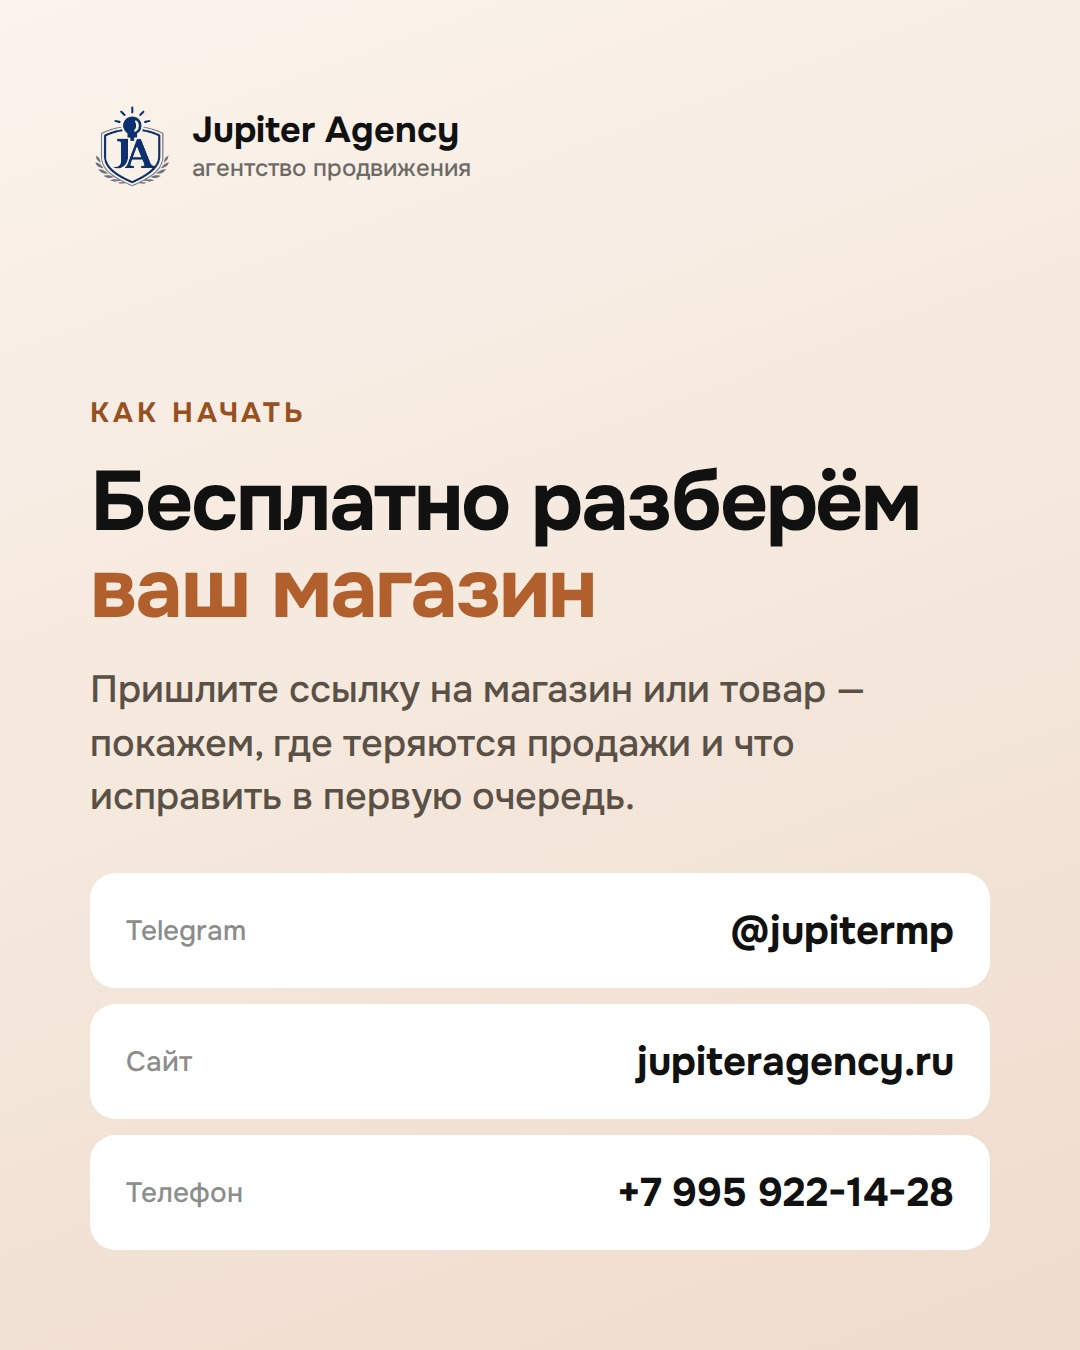
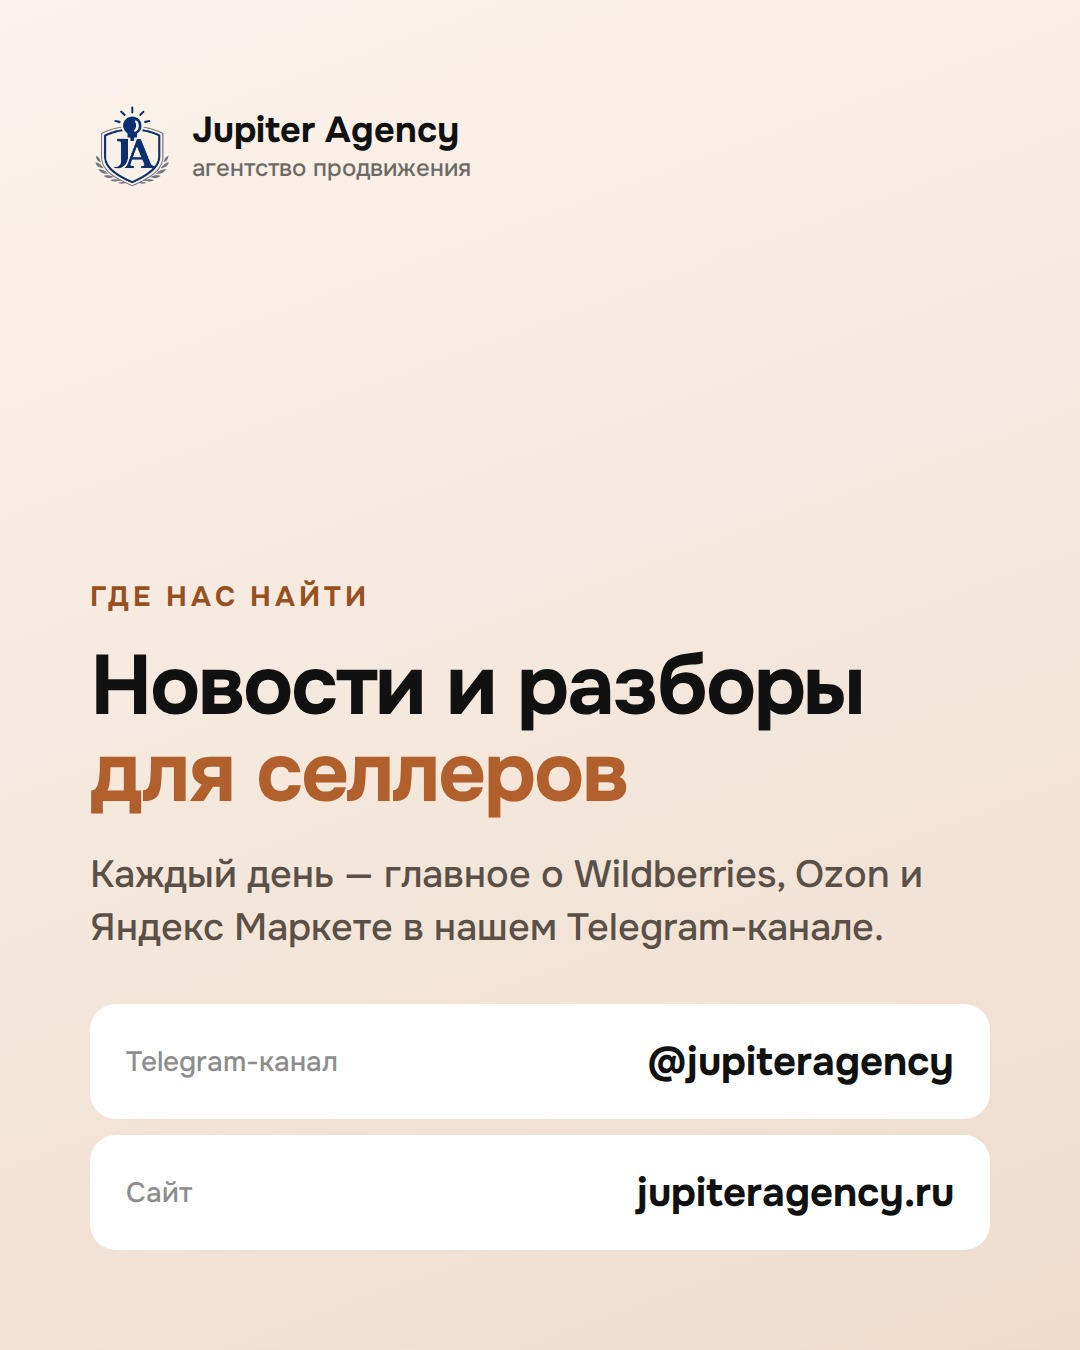
Instagram: призывы подписаться на канал вместо предложения услуг
Claude-Session: https://claude.ai/code/session_011c5SfxTiKPXy6D17hbcBSK

diff --git a/reels/render.py b/reels/render.py
@@ -12,7 +12,7 @@ from music import make_track
 HERE = os.path.dirname(os.path.abspath(__file__))
 ASSETS = os.path.join(HERE, "assets")
 FPS, TOTAL = 30, 30.0
-BOT = "@jupiteragency_bot"
+CHANNEL = "@jupiteragency"
 e = lambda s: html.escape(str(s))
 
 
@@ -49,10 +49,10 @@ def scene_html(s, t0, t1):
         mb = 'style="margin-bottom:24px"'
         return f'<div class="sc" style="justify-content:flex-start;top:330px"><div {a(0.1, mb, "m")}>{e(s["title"])}<em>{e(s["accent"])}</em></div>{items}</div>'
     if ty == "cta":
-        return f'''<div class="sc"><div {a(0.1, "", "k")}>Бесплатно</div><div style="height:30px"></div>
-<div {a(0.3, "", "m")}>Чек-лист <em>«20 причин, почему карточка не продаёт»</em></div>
-<div {a(0.9, 'style="margin-top:40px"', "sub")}>Заберите в нашем Telegram-боте</div>
-<div {a(1.4, "", "cta")}>{BOT}</div></div>'''
+        return f'''<div class="sc"><div {a(0.1, "", "k")}>Telegram-канал</div><div style="height:30px"></div>
+<div {a(0.3, "", "m")}>Больше разборов <em>для селлеров</em></div>
+<div {a(0.9, 'style="margin-top:40px"', "sub")}>Новости маркетплейсов и советы каждый день</div>
+<div {a(1.4, "", "cta")}>Подписывайтесь: {CHANNEL}</div></div>'''
     raise ValueError(ty)
 
 
@@ -63,7 +63,7 @@ def build_html(script):
     body += f'''<div class="sc" style="align-items:flex-start"><img class="a logo" data-in="{t_end + 0.1:.2f}" data-out="99" src="{logo}">
 <div class="a m" data-in="{t_end + 0.3:.2f}" data-out="99" style="margin-top:50px;font-size:84px">Jupiter Agency</div>
 <div class="a sub" data-in="{t_end + 0.5:.2f}" data-out="99" style="margin-top:12px">агентство продвижения на маркетплейсах</div>
-<div class="a ct" data-in="{t_end + 0.8:.2f}" data-out="99" style="margin-top:60px">Telegram <span>@jupitermp</span><br>jupiteragency.ru</div></div>'''
+<div class="a ct" data-in="{t_end + 0.8:.2f}" data-out="99" style="margin-top:60px">Telegram <span>@jupiteragency</span><br>jupiteragency.ru</div></div>'''
     css = open(os.path.join(HERE, "style.css"), encoding="utf-8").read().replace("ASSETS", "file://" + ASSETS)
     js = open(os.path.join(HERE, "anim.js"), encoding="utf-8").read().replace("TOTAL", str(TOTAL))
     return f'<!doctype html><html><head><meta charset="utf-8"><style>{css}</style></head><body><div id="glow"></div><div id="prog"><i></i></div>{body}<script>{js}</script></body></html>'

diff --git a/scripts/instagram_publish.py b/scripts/instagram_publish.py
@@ -24,7 +24,7 @@ RAW_URL = "https://raw.githubusercontent.com/{repo}/main/ig/{name}"
 KEEP_IMAGES = 20
 MAX_AGE = timedelta(hours=48)
 UA = "JupiterInstagramPublisher/1.0 (+https://jupiteragency.ru)"
-BOT_CTA = "Бесплатный чек-лист «20 причин, почему карточка не продаёт» — в Telegram-боте @jupiteragency_bot"
+BOT_CTA = "Больше разборов и новостей для селлеров — подписывайтесь на Telegram-канал @jupiteragency"
 
 
 def graph_base():
@@ -69,7 +69,6 @@ def caption(post):
     if src and src != "Jupiter Agency":
         text += "\n\nИсточник: " + src
     text += "\n\n" + BOT_CTA
-    text += "\n\nНовости для селлеров каждый день — в Telegram-канале @jupiteragency"
     tags = []
     for t in (post.get("hashtags", "") + " #селлеры #маркетплейсы #jupiteragency").split():
         if t not in tags:

diff --git a/scripts/instagram_reel.py b/scripts/instagram_reel.py
@@ -49,7 +49,7 @@ def main():
         if http("HEAD", video_url, timeout=30)[0] == 200:
             break
         time.sleep(5)
-    caption = f"{nxt['caption']}\n\n{BOT_CTA}\n\nНовости для селлеров каждый день — в Telegram-канале @jupiteragency\n\n{TAGS}"
+    caption = f"{nxt['caption']}\n\n{BOT_CTA}\n\n{TAGS}"
     st, body = http("POST", f"{base}{ig_user}/media", {"media_type": "REELS", "video_url": video_url,
                     "caption": caption[:2200], "share_to_feed": "true",
                     # обложка — кадр на 2,8 с, когда заголовок уже полностью на экране
